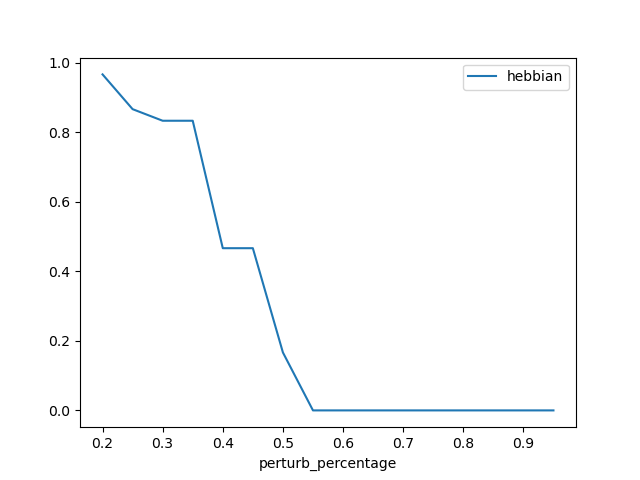
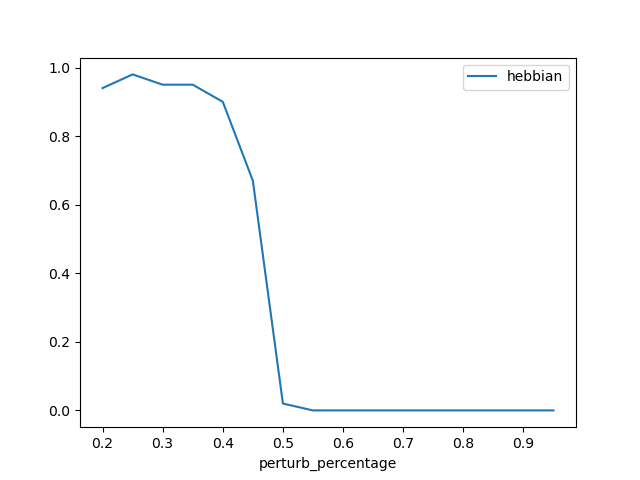
robustness mluefkens, speyrache, heinkele

diff --git a/main.py b/main.py
@@ -82,7 +82,7 @@ def main():
 """-------------------------------------EXPERIMENT------------------------------------"""
 """
 def main():
-    sizes=[10,18,34]
+    sizes=[10,18,34, 63, 116, 215, 397, 733, 1354, 2500]
     results_hebbian=[]
     results_storkey=[]
     hebbian_plot = []
@@ -137,7 +137,7 @@ def main():
         print(df_storkey.to_markdown())
 """
 def main():
-    sizes=[10,18,34]
+    sizes=[10,18,34, 63, 116, 215, 397, 733, 1354, 2500]
     convergence_percentage_hebbian_list = []
     convergence_percentage_storkey_list = []
     percentage = 0.15
@@ -161,9 +161,9 @@ def main():
     print(df_hebbian.to_markdown())
     print(df_storkey.to_markdown())
 
-    df_hebbian.plot(x = 'perturb_percentage', y = 'match_percentage', label = 'hebbian')
+    df_hebbian.plot(x = 'perturb_percentage', y = 'match_percentage', label = 'hebbian', color = 'blue')
     plt.show()
-    df_storkey.plot(x = 'perturb_percentage', y = 'match_percentage', label = 'storkey')
+    df_storkey.plot(x = 'perturb_percentage', y = 'match_percentage', label = 'storkey', color = 'orange')
     plt.show()
 
 

diff --git a/summary.md b/summary.md
@@ -33,7 +33,49 @@ After runing the experiment, we obtain the following graphs :
 
 Followed by the following tables : 
 
-*insert picture or file*
+Hebbian robustness table : 
+
+|    |   perturb_percentage |   match_percentage |
+|---:|---------------------:|-------------------:|
+|  0 |                 0.2  |               0.94 |
+|  1 |                 0.25 |               0.98 |
+|  2 |                 0.3  |               0.95 |
+|  3 |                 0.35 |               0.95 |
+|  4 |                 0.4  |               0.9  |
+|  5 |                 0.45 |               0.67 |
+|  6 |                 0.5  |               0.02 |
+|  7 |                 0.55 |               0    |
+|  8 |                 0.6  |               0    |
+|  9 |                 0.65 |               0    |
+| 10 |                 0.7  |               0    |
+| 11 |                 0.75 |               0    |
+| 12 |                 0.8  |               0    |
+| 13 |                 0.85 |               0    |
+| 14 |                 0.9  |               0    |
+| 15 |                 0.95 |               0    |
+
+
+Storkey robustness table:
+
+|    |   perturb_percentage |   match_percentage |
+|---:|---------------------:|-------------------:|
+|  0 |                 0.2  |               1    |
+|  1 |                 0.25 |               0.98 |
+|  2 |                 0.3  |               0.98 |
+|  3 |                 0.35 |               0.93 |
+|  4 |                 0.4  |               0.87 |
+|  5 |                 0.45 |               0.71 |
+|  6 |                 0.5  |               0.08 |
+|  7 |                 0.55 |               0    |
+|  8 |                 0.6  |               0    |
+|  9 |                 0.65 |               0    |
+| 10 |                 0.7  |               0    |
+| 11 |                 0.75 |               0    |
+| 12 |                 0.8  |               0    |
+| 13 |                 0.85 |               0    |
+| 14 |                 0.9  |               0    |
+| 15 |                 0.95 |               0    |
+
 
 We can see that we obtain a critical percent of perturbations of : 25-30% with the Hebbian calculations and 30-35% with the Sorkey calculations. As the perturbations are random, the penrcentage varies a little bit between each trial.   
 
